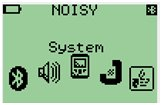
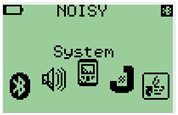
0.9 version of menu system tutorial

diff --git a/tutorial/release/MenuSystem/MenuSystem.htm b/tutorial/release/MenuSystem/MenuSystem.htm
@@ -56,7 +56,7 @@
 				<div class="linkAHEAD2"><a href="#3.4">Visibility</a></div>
 				<div class="linkAHEAD2"><a href="#3.5">Change Pin</a></div>
 				<div class="linkAHEAD"><a href="#4">Sound menu</a></div>
-				<div class="linkAHEAD"><a href="#5">System</a></div>
+				<div class="linkAHEAD"><a href="#5">System menu</a></div>
 				<div class="linkAHEAD"><a href="#6">Version menu</a></div>
       		</td>
       		<td>
@@ -83,8 +83,8 @@
 				power is on, but USB and Bluetooth are not connected. </p>
       			<p>It then shows a graphic menu of icons. The selected icon is raised in the center and its name is displayed.
       			   You can use the keys to navigate the menu:</p>
-      			<table border="1" cellpadding="7" cellspacing="0" width="533">
-        			<col width="35"/> <col width="36"/> <col width="118"/> <col width="286"/> 
+      			<table border="1" cellpadding="7" cellspacing="0" width="553">
+        			<col width="35"/> <col width="36"/> <col width="118"/> <col width="306"/> 
         			<tbody>
           				<tr valign="top">
             				<td colspan="2" width="85">
@@ -93,7 +93,7 @@
             				<td width="118">
             					<p>Name</p>
             				</td>
-            				<td width="286">
+            				<td width="306">
             					<p>Use</p>
             				</td>
           				</tr>
@@ -110,7 +110,7 @@
             				<td width="118">
             					<p>Left,Right </p>
             				</td>
-            				<td width="286">
+            				<td width="306">
             					<p>Move left or right</p>
             				</td>
           				</tr>
@@ -124,7 +124,7 @@
             				<td width="118">
             					<p>Enter</p>
             				</td>
-            				<td width="286">
+            				<td width="306">
             					<p>Select the menu item</p>
             				</td>
           				</tr>
@@ -139,15 +139,17 @@
             				<td width="118">
             					<p>Escape</p>
             				</td>
-            				<td width="286">
-            					<p>Quit the menu and return to the previous one..
-            					<br/>In the main menu, shut down the NXT </p>
+            				<td width="306">
+            					<p>Quit a submenu and return to higher level menu.
+            					<br/>If on a top level menu, shut down the NXT. </p>
             				</td>
           				</tr>
         			</tbody>
       			</table>
-      			<p/>
-      			<p>Selecting "Run Default" will run the default program if one is set. The default program can be set from the Files menu.</p>
+
+      			<p>Pressing Enter when "Run Default" is displayed will run the default program if one is set. The default program can be set from the Files menu.
+      			Note that if you set the "Auto Run" option from the System menu, the default program will run automatically on start up,
+      			instead of this menu. </p>
       			
       			<a href="#top">Back to top</a>
       			<p/>
@@ -194,26 +196,24 @@
       			<p>Pressing the right Button from the Power On/Off submenu, shows the Search/Pair submenu. </p>
       			
       			<img src="search.jpg"/>
-      			<p>Selecting &#8220;Search&#8221; from the Bluetooth menu, starts a Bluetooth inquiry. The display is cleared and the first line displays &#8220;Searching&#8230;&#8221;. This takes about 10 seconds.</p>
+      			<p>Pressing Enter starts a Bluetooth inquiry. The display is cleared and the first line displays &#8220;Searching&#8230;&#8221;. This takes about 10 seconds.</p>
       			<p>When the search is finished a menu of all the Bluetooth devices found, is displayed:</p>
-      			<div class="LCDBox">
-      				<p align="center">Found</p>
-      				<p>&gt;NXT1</p>
-      				<p>&nbsp;HOLUX_M-1200</p>
-      				<p>&nbsp;MyPhone</p>
-      				 </div>
+      			
+      			<img src="found.jpg"/>
       			<p>All discoverable devices that support an SPP profile are displayed. This includes other NXT, GPS devices, mobile phones etc.</p>
       			<p>Selecting one of the devices gives the following display:</p>
-      			<p/>
-      			<div class="LCDBox">
-      				<p align="center">Found</p>
-      				<p>NXT1</p>
-      				<p>001653007848</p>
-      				<br/>
-      				<p>&gt;Add</p>
-      				<br/>
-      			</div>
-      			<p>Selecting Add, adds the device to the list of know devices. This makes connecting to the devices from leJOS programs much easier.</p>    			
+
+      			<img src="pair.jpg"/>
+      			<p>Pressing Enter lets you pair the selected device with your NXT and adds it to the list of known devices. 
+      			This makes connecting to the device from leJOS programs much easier.</p> 
+      			
+      			<p>When you press Enter to pair the device, a submenu is displayed for you to enter the pin for
+      			the selected device. You may need to go to the selected device and Enter the pin on that device as well.</p> 
+      			
+      			<img src="pairpin.jpg"/>  			
+				
+				<p>To enter the 4 digit pin on the NXT, press the left and right buttons to increment or decrement the current digit, and Press Enter to go on to the next one.
+				When you press Enter on the last digit, the pairing will take place.  The current digit has is displayed in a box to highlight it.</p>
 				
 				<a name="#3.3"></a>
       			<h5>Devices</h5>
@@ -227,29 +227,38 @@
       			<img src="devicelist.jpg"/>
 
       			<p>Selecting a specific device will show details of it:</p>
-      			<div class="LCDBox">
-      				<p align="center">Devices</p>
-      				<p>NXT1</p>
-      				<p>001653007848</p>
-      				<p>0 0 0 4</p>
-      				<p>&gt;Remove</p>
-      			</div>
       			
-     			<p>The first line give the name, the second the address, and the third the status of the four possible Bluetooth connections. </p>
-      			<p >The &#8220;Remove&#8221; menu item allows the device to be removed from the Known device list.</p>
+      			<img src="device.jpg"/>
+      			
+     			<p>The first line gives the name and the second the address. </p>
+      			<p >Press Enter to remove the device from the Known devices list.</p>
 				
 				<a name="#3.4"></a>
       			<h5>Visibility</h5>
       			
-      			<p>Pressing the right button from the Devices submenu icon, shows the Visibility submenu:</p>
+      			<p>Pressing the right button from the Devices submenu, shows the Visibility submenu:</p>
       			
       			<img src="visibility.jpg"/>
       			
 				<p>Pressing Enter on the Visibility submenu switches visibility of the NXT device to Bluetooth inquiries on and off.
-				The status is shown on the Visibiliuty line at the top of the screen.</p>
+				The status is shown on the Visibility line at the top of the screen.</p>
 				
       			<a name="#3.5"></a>
       			<h5>Change Pin</h5>
+      			
+      			<p>Pressing ENTER from the Visibility submenu, displays the Change Pin submenu:</p>
+      			
+      			<img src="pin.jpg"/>
+      			
+      			<p>Press Enter to get the Enter NXT Pin submenu:</p>
+      			
+      			<img src="changepin.jpg"/>
+      			
+      			<p>This lets you change the pin for your NXT. The pin is required when you pair your NXT from another device.
+      			It is preset to 1234.</p>
+      			
+      			<p>To enter the 4 digit pin, press the left and right buttons to increment or decrement the current digit, and Press Enter to go on to the next one.
+				When you press Enter on the last digit, the pairing will take place. The current digit has is displayed in a box to highlight it.</p>
       			
       			<p><a href="#top">Back to top</a></p>
       						
@@ -260,9 +269,16 @@
       			
     			<p>Press the right button from the Bluetooth menu item, displays the Sound menu icon:</p>
       			
-      			<p>With this menu, you can set the default system sound Volume and the Key Clock volume. Click the Enter key to scroll through the options.</p>
+      			<p>Press Enter and the Volume submenu is displayed. Click the Enter key to increase the main volume.
+      			After 10 it wraps round to mute (sound off). Presing it again increases the sound from level 1 upwards.</p>
 				
 				<img src="volume.jpg"/>
+				
+				<p>Press the right button from the Volume submenu and the Key Click submenu is displayed.</p>
+				
+				<img src="keyclick.jpg"/>
+				
+				<p>This sets the volume of the sound when a key is clicked. It works the same as the Volume submenu.</p>
 				
 				<a name="#5"></a>
       			<h4>System menu</h4>
@@ -274,26 +290,31 @@
       			format (wipe clean) the file system.</p>
       			<img src="systeminfo.jpg"/>
       			
-      			<p>This menu shows some information about the status of the NXT, and allows you to change some of these variables.</p>
-      			<ul class="BlueArrows">
-        			<li>Free flash</li>
-        			<li>Battery voltage</li>
-        			<li>Free ram</li>
-        			<li>Format <br/>Wipes out the flash memory, deleting all files.</li>
-        			<li>Sleep Time<br/>is the number of seconds before the NXT shuts down in the absence of
-						any activity (button presses or program running) You can change the
-						setting by pressing the ENTER button. Zero means never.
-        			</li>
-        			<li>Auto run<br/>
-						If this is turned on, the default program immediately starts running
-						when the NXT is powered up, instead of displaying the main menu. You
-						can disable the auto run by holding down the left button during start
-						up.
-        			</li>
-      			</ul>
-      			<p/>
-      			<a href="#top">Back to top</a>
-      			<p/>
+      			<p>This submenu shows some information about the status of the NXT, and allows you to change some of these variables.</p>
+      			
+      			<p>The free flash memory and free RAM are displayed in bytes. An "R" after the battery voltage indicates that a rechargable 
+      			battery pack is in use.</p>
+      			
+      			<p>Press Enter to format the file system and wipe out all files. A submenu of Yes and No is diaplayed, defaulted to No,
+      			to confirm the operation. Press the left or right arrows to select Yes, and then press Enter to format the filesystem.</p>
+      			
+      			<p>Pressing right arrow when the Format submenu is diaplayed, shows the sleep time submenu:</p>
+      			
+      			<img src="sleep.jpg"/>
+      			
+      			<p>Press Enter to increment the sleep time. It is in minutes. The maxiumum value is 10 minutes.
+      			Pressing Enter when 10 is displayed, sets the sleep timer off. Pressing Enter again starts incrementing it
+      			starting at 1.</p>
+      			
+      			<p>Pressing the right button when the Sleep time submenu is displayed, takes you to the Auto Run submenu:</p>
+      			
+      			<img src="autorun.jpg"/>
+      			
+      			<p>Auto run defaults to off. It can only be switched on if a default program has been defined.
+      			When it is on the default program will be run automatically on start up, instead of this menu.
+      			You can disable this and cause the menu to be displayed by pressing the left button during start up.</p>
+
+      			<p><a href="#top">Back to top</a></p>
       			
       			<a name="#6"></a>
       			<h4>Version</h4>
